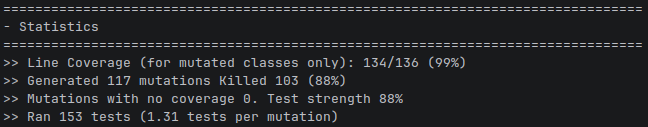
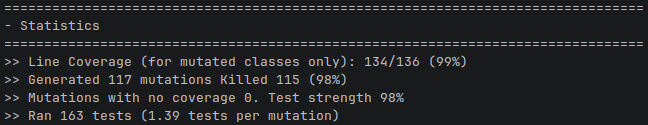
Updated VVS report

diff --git a/vvs/assignments/report/mutation/capmutation.tex b/vvs/assignments/report/mutation/capmutation.tex
@@ -6,6 +6,8 @@ Program mutation testing was executed with PIT over class \texttt{sut.TST}.
 The comparison goal was restricted to method \texttt{longestPrefixOf}, using one criterion-specific class per run:
 Edge-Pair, Prime Path, and Logic-based (CDC).
 Each run selected the relevant test class through \texttt{-DtargetTests=...}, so mutation outcomes could be compared under controlled test-selection conditions.
+In this project configuration, PIT summaries may still include mutants from multiple methods in \texttt{sut.TST};
+therefore, comparison values were computed by filtering XML entries with \texttt{mutatedMethod = longestPrefixOf}.
 
 \section{Execution Commands}
 
@@ -32,7 +34,10 @@ cp target/pit-reports/mutations.xml target/pit-reports/mutations-cdc.xml
 \section{Comparison for \texttt{longestPrefixOf}}
 
 The project report \texttt{longestPrefixOf-mutation-comparison.md} was used to consolidate results per criterion.
-Because PIT report summaries may include mutations from multiple methods, comparison values were computed from XML report entries filtered by \texttt{mutatedMethod = longestPrefixOf}.
+Results below were refreshed from PIT reruns on \texttt{2026-04-19}, using
+\texttt{target/pit-reports/mutations-edgepair.xml},
+\texttt{target/pit-reports/mutations-primepath.xml}, and
+\texttt{target/pit-reports/mutations-cdc.xml}.
 
 \begin{table}[H]
 	\centering
@@ -55,16 +60,43 @@ Because PIT report summaries may include mutations from multiple methods, compar
 	\label{fig:pit-mutation-evidence}
 \end{figure}
 
+Although final mutation scores are identical, PIT's \texttt{killingTest} field indicates that each criterion kills mutants through different test obligations.
+
+\begin{table}[H]
+	\centering
+	\scriptsize
+	\setlength{\tabcolsep}{3pt}
+	\renewcommand{\arraystretch}{1.15}
+	\begin{tabular}{|p{2.1cm}|p{4.9cm}|p{6.6cm}|}
+		\hline
+		Criterion & Dominant killing tests (from PIT XML) & Interpretation \\
+		\hline
+		Edge-Pair & \texttt{traversalTakesLeftAnd}\newline \texttt{RightEdges} (6);\newline \texttt{equalEdgeWithoutValue}\newline \texttt{DoesNotUpdateLength} (3) & Most kills come from edge-transition combinations and value-update edge cases. \\
+		\hline
+		Prime Path & \texttt{primePath\_rightThen}\newline \texttt{EqualThenMid} (7);\newline \texttt{primePath\_exitsWhen}\newline \texttt{SearchFallsOffTrie} (4) & Most kills come from full-path traversal obligations and path-exit behavior. \\
+		\hline
+		Logic-based (CDC) & \texttt{cdc\_whileCondition\_true}\newline \texttt{BecauseBothClausesTrue} (8);\newline \texttt{cdc\_whileCondition\_false}\newline \texttt{BecauseLeftClauseFalse} (3) & Most kills come from independent truth/falsity control of \texttt{x != null} and \texttt{i < query.length()}. \\
+		\hline
+	\end{tabular}
+	\normalsize
+	\caption{Dominant mutant-killing tests by criterion}
+\end{table}
+
 \section{Improvements Performed}
 
-Initial Prime Path and CDC runs each showed one \texttt{longestPrefixOf} mutant without coverage.
-To close these gaps, one guard-focused test was added to each suite:
-\texttt{primePath\_entry\\GuardEmptyQuery} in \texttt{LongestPrefixOfPrimePathTest} and
+Historical pre-improvement PIT XML was not archived in this workspace, so a fully reproducible baseline table with exact earlier counts cannot be reconstructed.
+What is reproducible in the current workspace is the improvement action and the final rerun state.
+Two targeted guard tests were added to close entry-guard gaps in \texttt{longestPrefixOf}:
+\texttt{primePath\_entryGuardEmptyQuery} in \texttt{LongestPrefixOfPrimePathTest} and
 \texttt{cdc\_entryGuardEmptyQuery} in \texttt{LongestPrefixOfConditionDecisionTest}.
-After this refinement, all criteria reached full mutation adequacy for \texttt{longestPrefixOf}.
+Current reruns confirm that all three criteria now kill all 13 \texttt{longestPrefixOf} mutants.
 
 \section{Discussion}
 
 The final result shows that all three criteria killed the same set of \texttt{longestPrefixOf} mutants.
 Even with identical final scores, the criteria provide complementary evidence: edge-pair tests emphasize local transition correctness, prime-path tests stress deeper path behavior, and CDC targets decision sensitivity.
 Using these perspectives together increases confidence in both control-flow and logic-level correctness.
+
+For completeness, the remaining non-\texttt{longestPrefixOf} surviving mutants are boundary changes in
+\texttt{collect} (lines 219 and 229), used by \texttt{keysThatMatch}.
+They are likely equivalent, since changing \texttt{<} to \texttt{<=} and \texttt{>} to \texttt{>=} at those points only explores an extra null branch in wildcard traversal and does not change the returned set of matched keys.

diff --git a/vvs/assignments/report/coverage/capcoverage.tex b/vvs/assignments/report/coverage/capcoverage.tex
@@ -26,6 +26,10 @@ The suite intentionally mixes normal behavior and guard behavior (for example, n
 	\label{fig:line-branch-coverage}
 \end{figure}
 
+The 2 lines without coverage are relative to a try-catch block that is not triggered by any test, as it guards against an \texttt{ReflectiveOperationException} that cannot occur in the current implementation.
+
+Similarly, there is 1 uncovered branch that is unreachable due to being covered in a public method. For example, the branch in \texttt{delete} that checks for a null node is not covered because the public \texttt{delete} method already guards against null nodes, so the internal method is never called with a null node.
+
 \section{\texttt{longestPrefixOf}: Structural and Logic-Based Criteria}
 
 Method \texttt{longestPrefixOf} was tested with three independent paradigms to avoid overfitting tests to a single test-design style.
